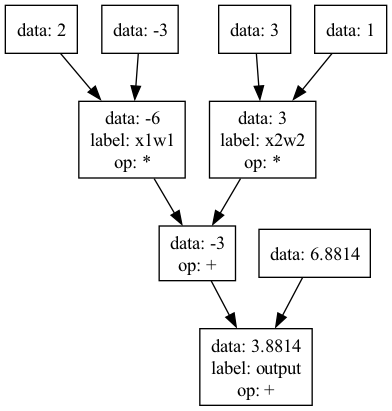
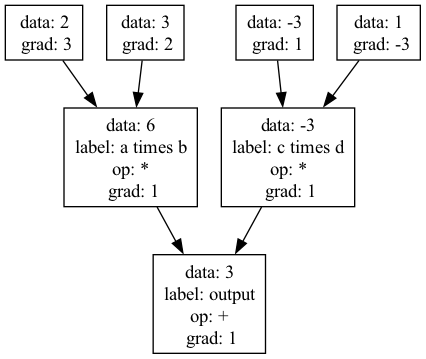
simplify demo

Changed region(s): [[0.0, 0.0, 1.0, 1.0], [0.7347, 0.6741, 0.7959, 0.7354]]

diff --git a/shahgrad.cpp b/shahgrad.cpp
@@ -132,6 +132,7 @@ class Value{
                     dotFile << "\\nlabel: " << node->label;
                 if (!node->operation.empty())
                     dotFile << "\\nop: " << node->operation;
+                dotFile << "\n grad: " << node->grad;
                 dotFile << "\", shape=box, style=filled, fillcolor=" << nodeColor << "];" << std::endl;
 
                 // Write edge information
@@ -206,22 +207,17 @@ class Linear{
 int main(){
     //Demonstration of the gradient engine
     //inputs
-    Value x1 = Value(2);
-    Value x2 = Value(3);
-    Value w1 = Value(-3);
-    Value w2 = Value(1);
-    Value bias = Value(6.8814);
+    Value a = Value(2);
+    Value b = Value(3);
+    Value c = Value(-3);
+    Value d = Value(1);
 
     //expression
-    Value x1w1 = x1* w1;
-    x1w1.label = "x1w1";
-    Value x2w2 = x2*w2;
-    x2w2.label = "x2w2";
-    Value x1w1x2w2 = (x1w1 + x2w2);
-    Value x1w1x2w2b = x1w1x2w2 + bias;
-    x1w1x2w2b.label = "x1w1 + x2w2 + bias";
-    Value res = x1w1x2w2b;
-
+    Value a_times_b = a * b;
+    a_times_b.label = "a times b";
+    Value c_times_d = c * d;
+    c_times_d.label = "c times d";
+    Value res = a_times_b + c_times_d;
     res.label = "output";
 
     res.grad = 1.0; //init root node grad to 1
